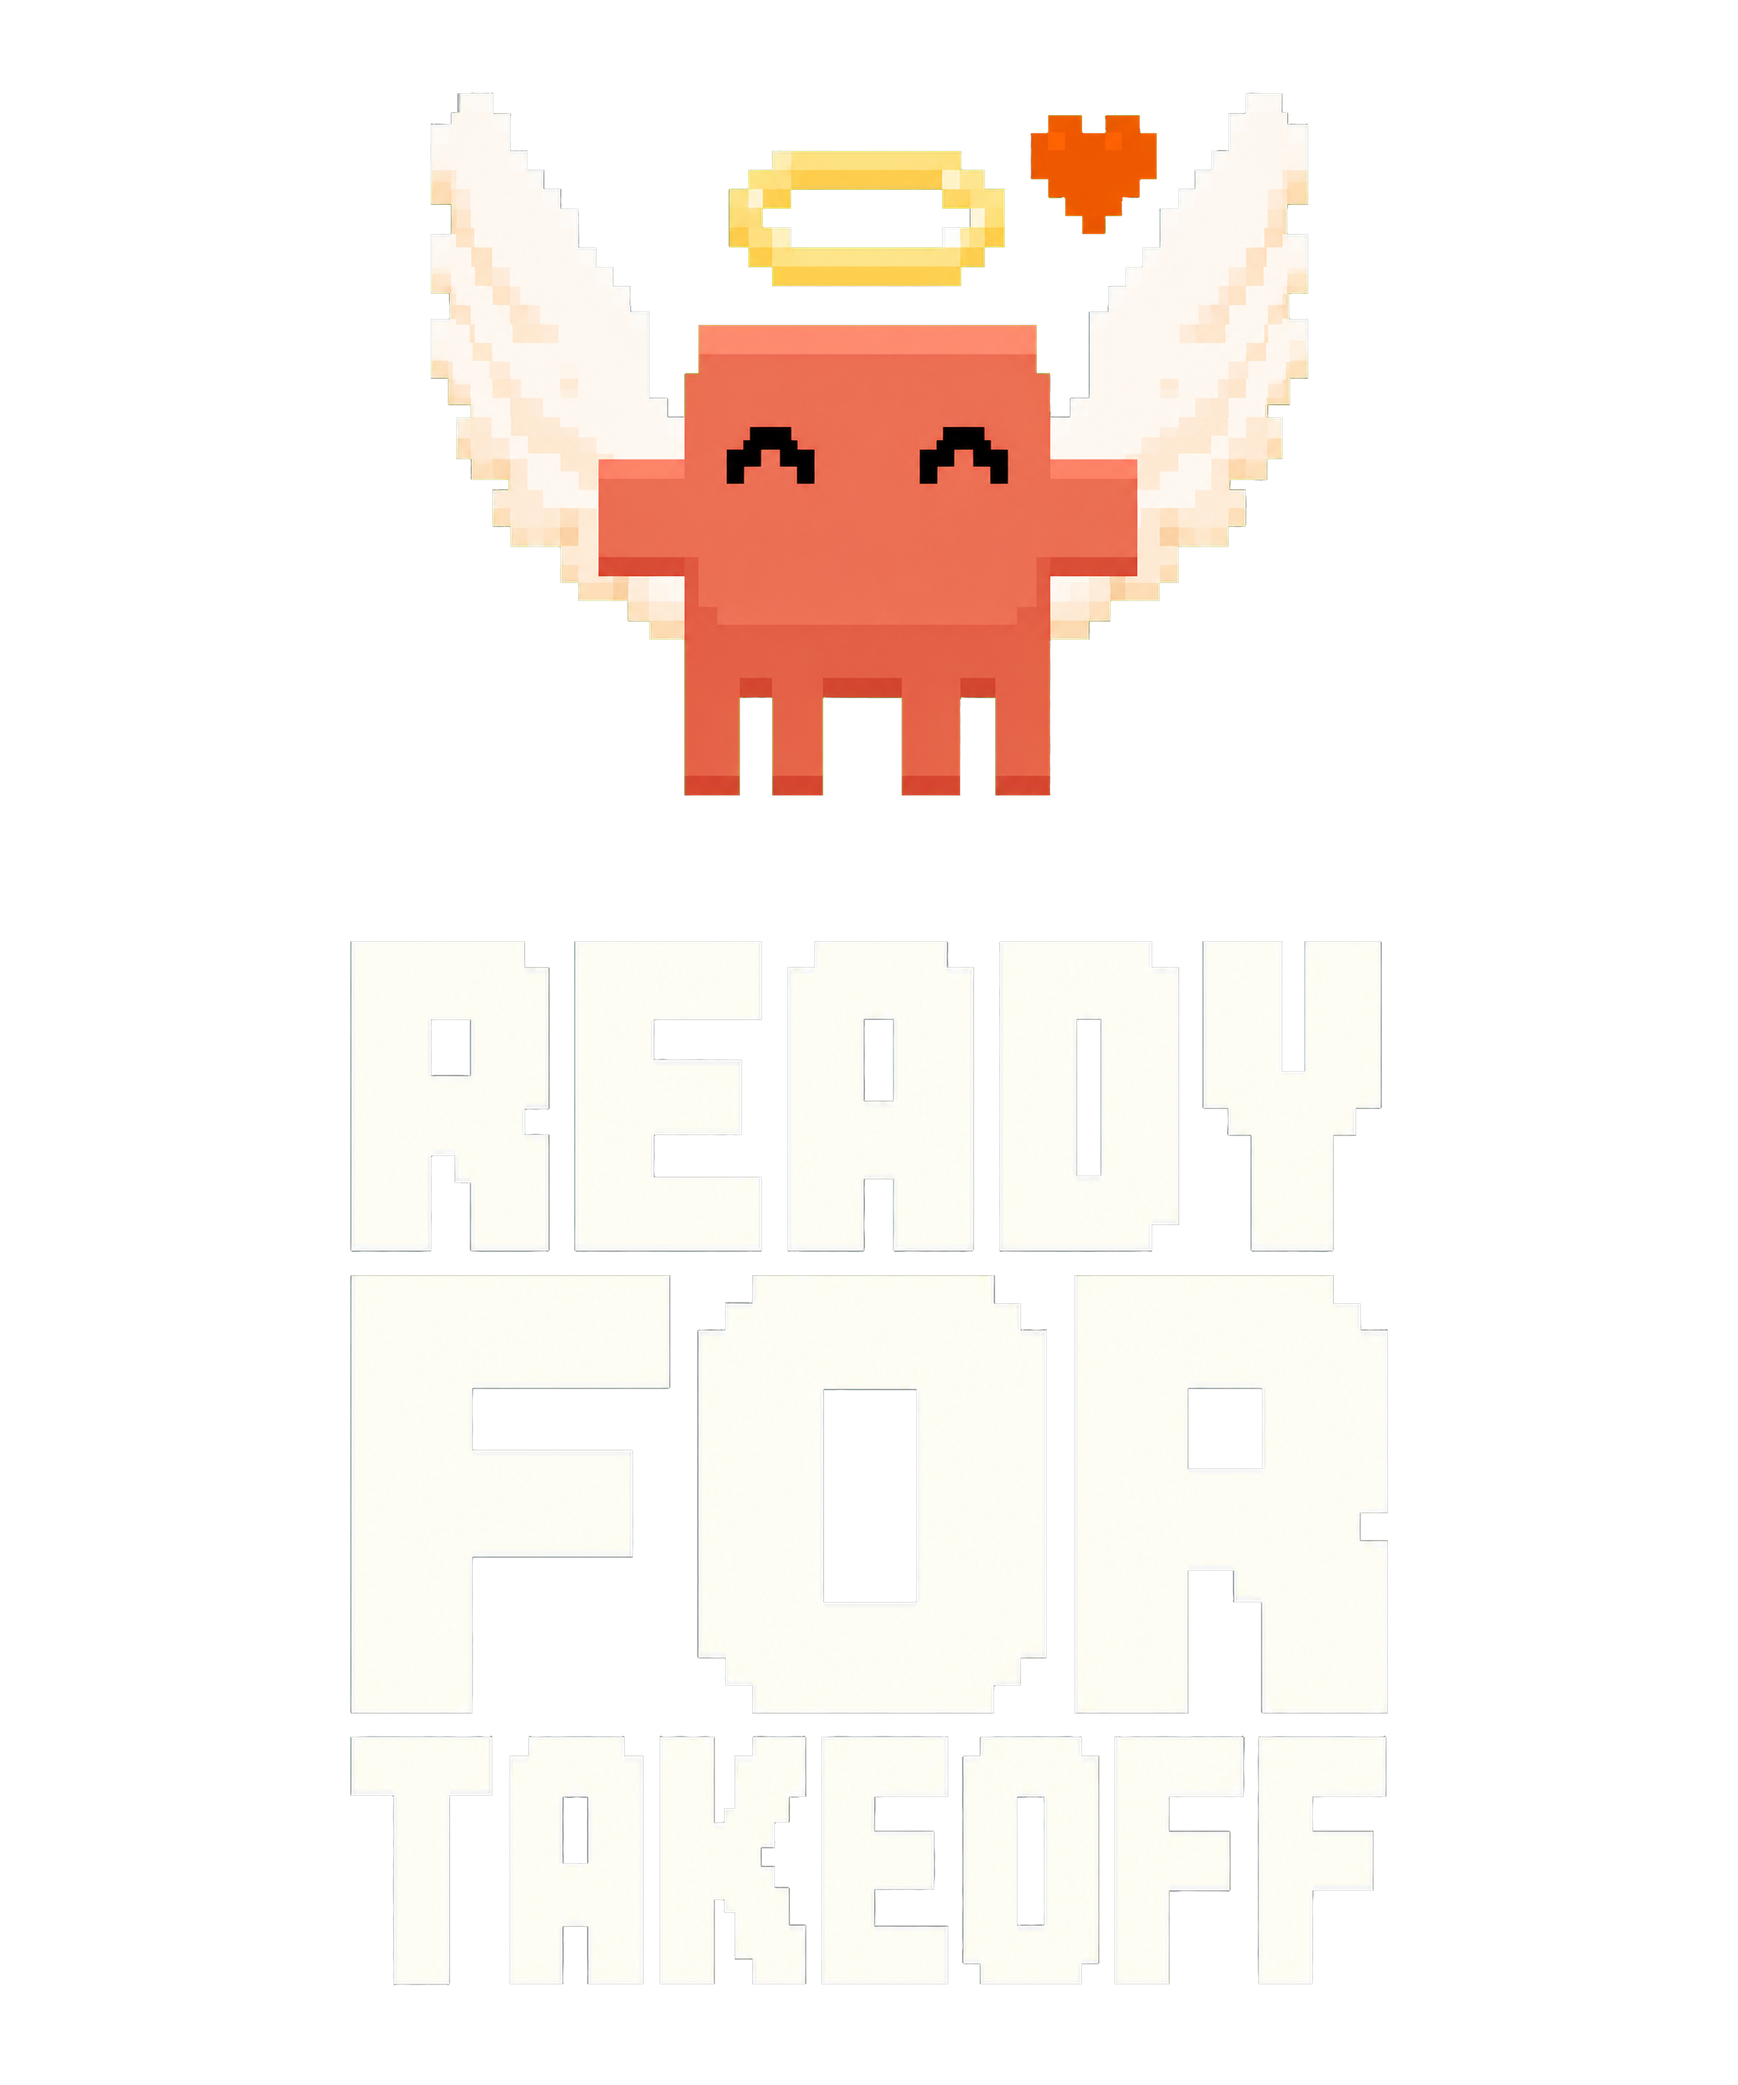
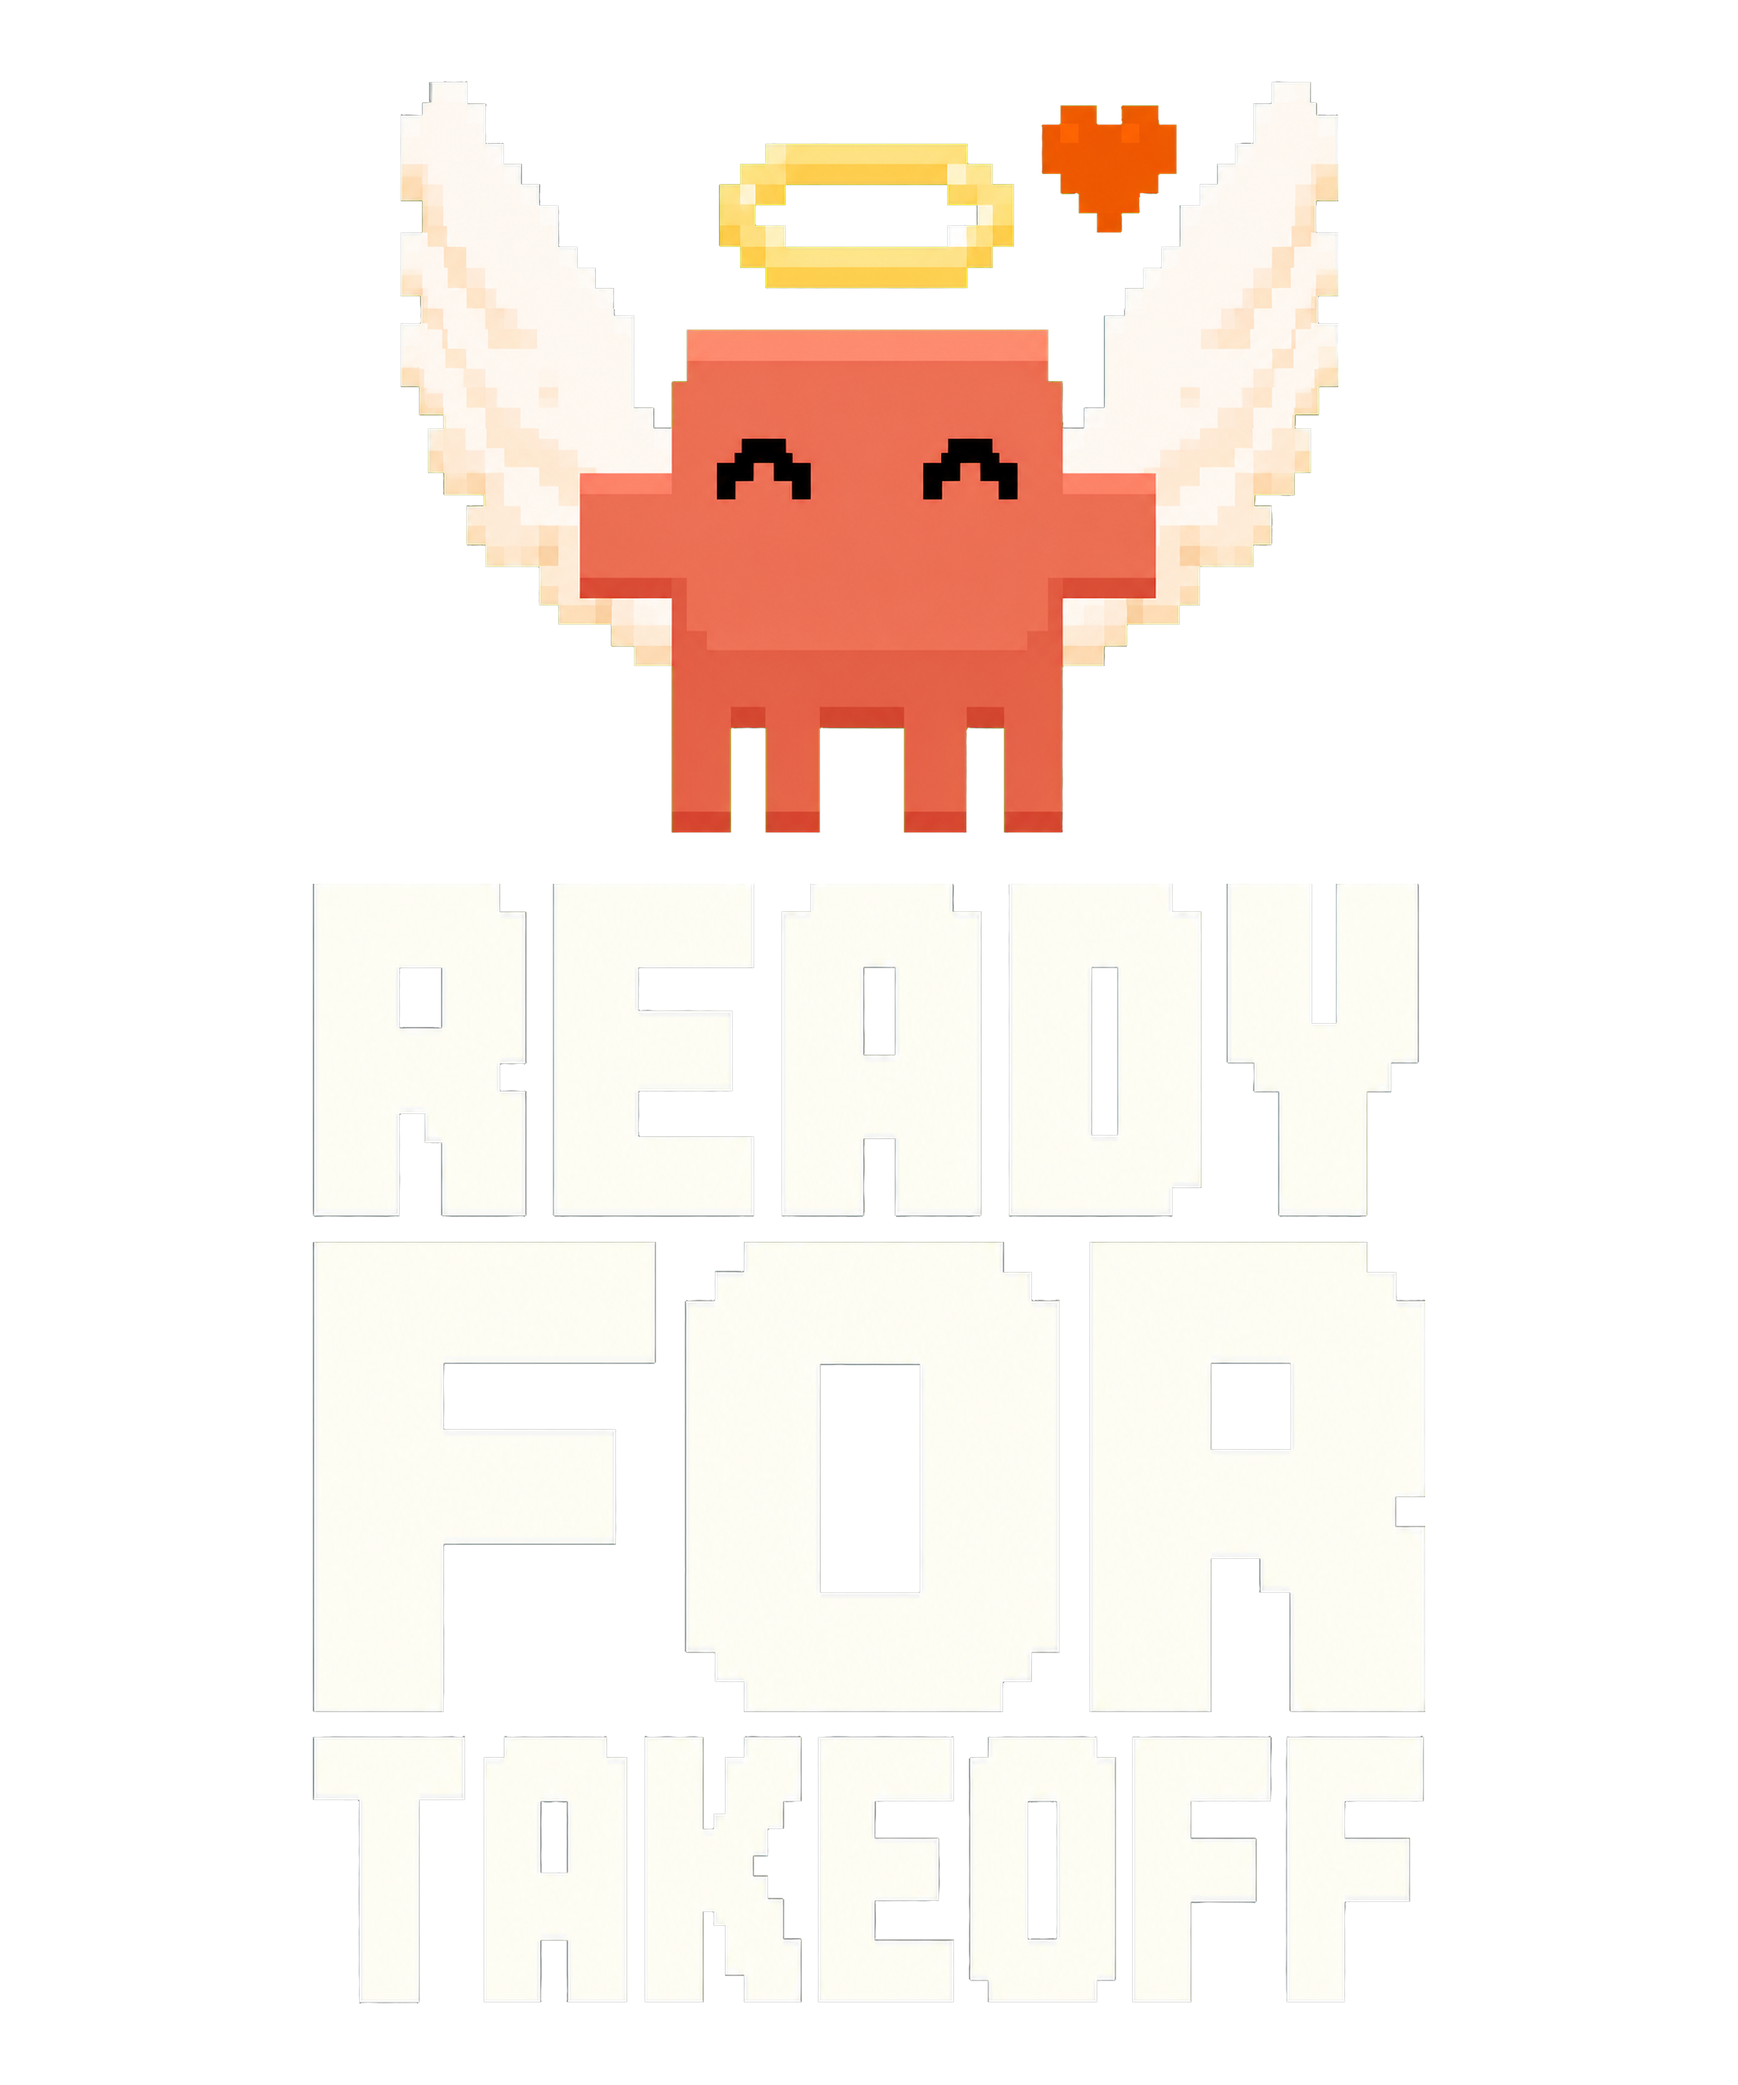
takeoff lockups: tighten the mascot-to-text gap (Gary)
"lower the character slightly to be closer to the text."

The real fix was in the stacker, not the numbers: every keyed PNG carries
transparent padding from the keyer, so --gap was measuring the space between
padded RECTANGLES and the visible gap came out larger than the number said,
by a different amount per layer. stack_print.py now trims each layer to its
alpha bbox first, so --gap is the gap between artwork you can actually see.
--no-trim keeps the old behavior.

Rebuilt all three lockups at gap 130 (300 DPI) / 260 (600 DPI).

Claude-Session: https://claude.ai/code/session_01W1TVoqpis8jYMHMD1PLG4i

Changed region(s): [[0.2178, 0.0311, 0.7778, 0.4044], [0.5289, 0.8711, 0.56, 0.9333], [0.3733, 0.6222, 0.4044, 0.6533]]

diff --git a/scripts/stack_print.py b/scripts/stack_print.py
@@ -18,8 +18,12 @@ paved. The sibling `generators/shirt-lockup` does the same job for text it TYPES
 Charter/Anton; this one is for lockups whose text is an imported keyed raster, which is the
 look Gary blessed for back prints.
 
-Layers scale to a fraction of the canvas width (--widths), stack in argument order with
---gap between them, and the whole block centers on the canvas. Scaling is LANCZOS by default
+Layers are TRIMMED to their alpha bounding box first, then scaled to a fraction of the canvas
+width (--widths), stacked in argument order with --gap between them, and the whole block is
+centered on the canvas. Trimming matters: every keyed PNG carries transparent padding from the
+keyer, so an untrimmed --gap is the space between padded RECTANGLES and the visible gap comes
+out larger than the number says, differently for each layer. With --trim (the default) the gap
+is between the artwork you can actually see, which is the only thing anyone is judging. Scaling is LANCZOS by default
 because a lockup usually scales DOWN; pass --nearest to keep hard pixel edges when scaling up.
 
 Usage:
@@ -44,6 +48,8 @@ def main() -> int:
                     help="comma-separated target width per layer, as a fraction of canvas width")
     ap.add_argument("--gap", type=int, default=200, help="vertical gap between layers in px")
     ap.add_argument("--nearest", action="store_true", help="NEAREST resampling (use when scaling up)")
+    ap.add_argument("--no-trim", dest="trim", action="store_false", default=True,
+                    help="keep each layer's transparent padding instead of measuring the real ink")
     args = ap.parse_args()
 
     cw, _, ch = args.canvas.lower().partition("x")
@@ -61,6 +67,10 @@ def main() -> int:
             print(f"error: no such file: {path}", file=sys.stderr)
             return 1
         im = Image.open(path).convert("RGBA")
+        if args.trim:
+            bbox = im.getchannel("A").getbbox()
+            if bbox:
+                im = im.crop(bbox)
         w = int(cw * frac)
         scaled.append(im.resize((w, max(1, round(im.height * w / im.width))), resample))
 
